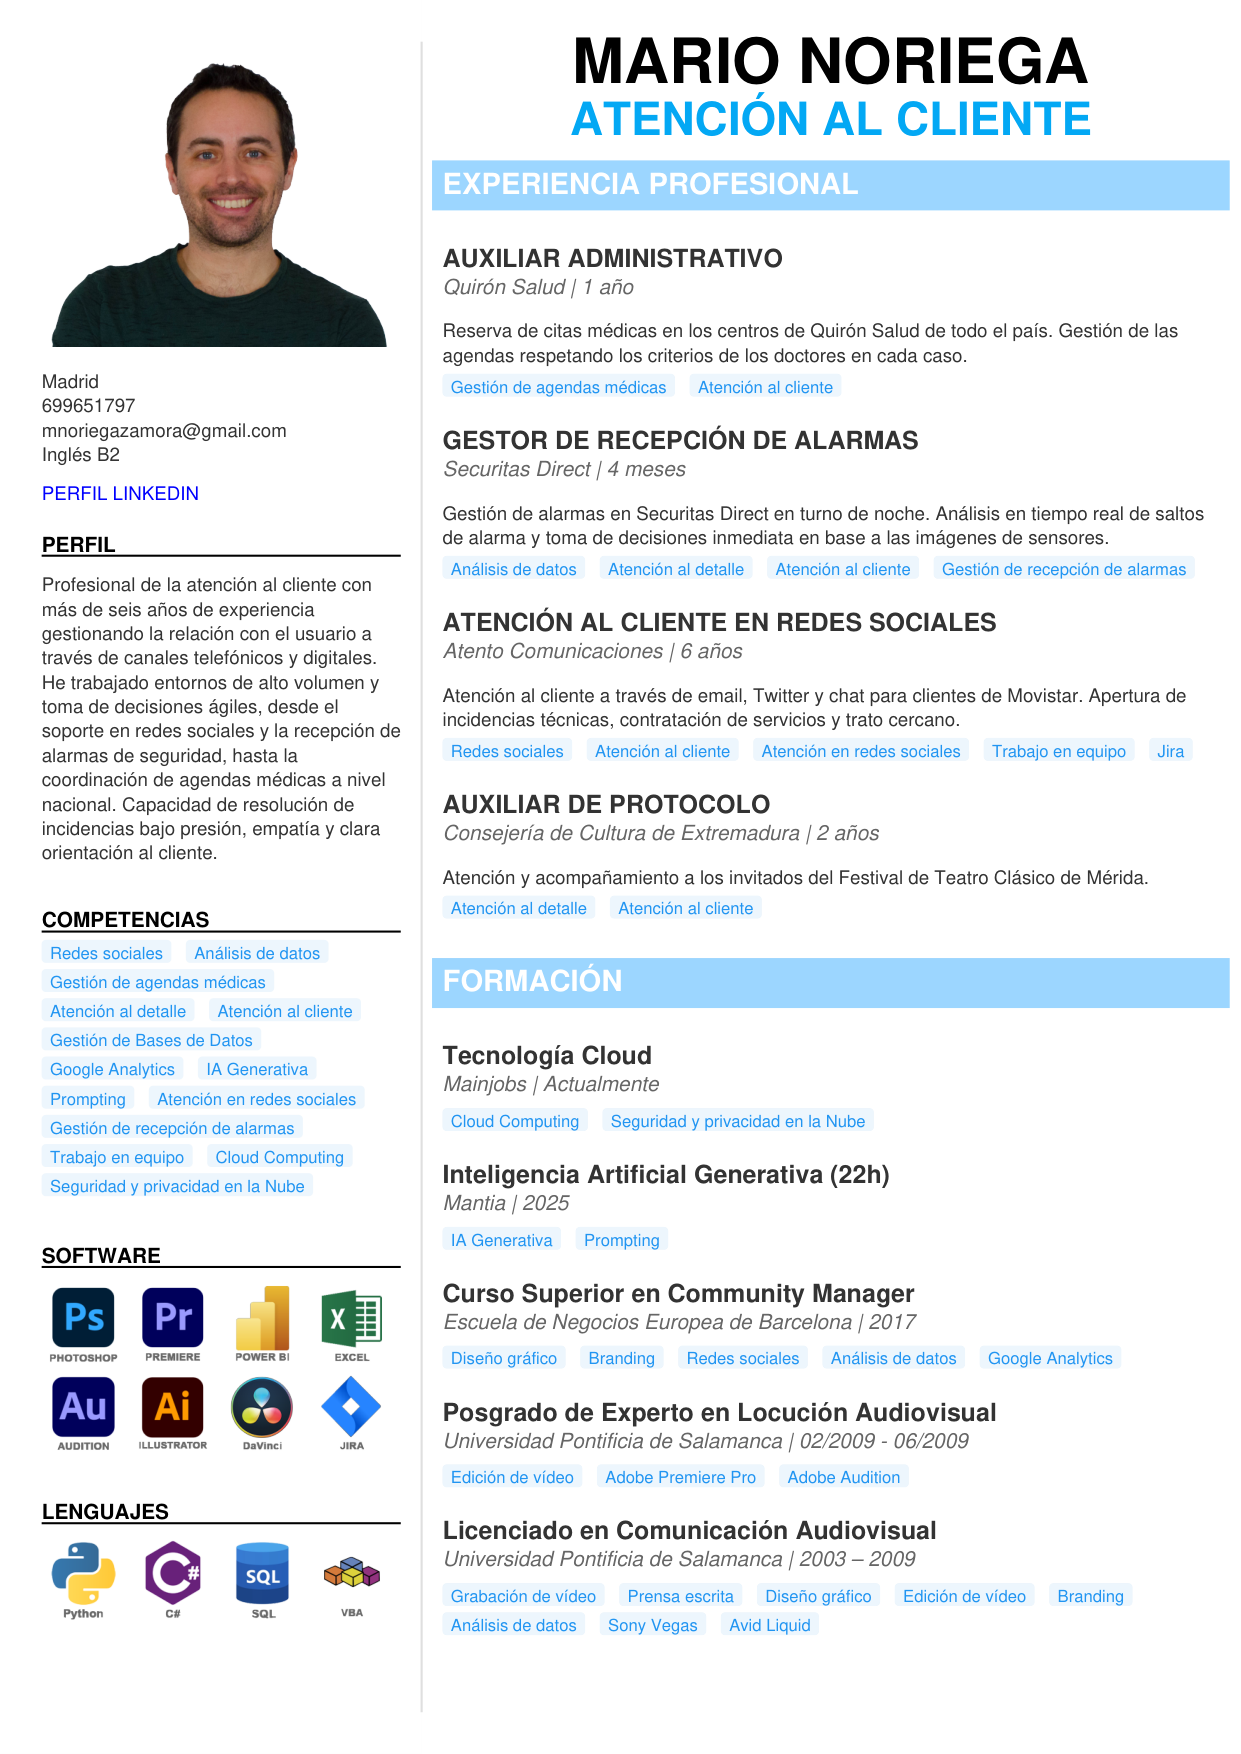
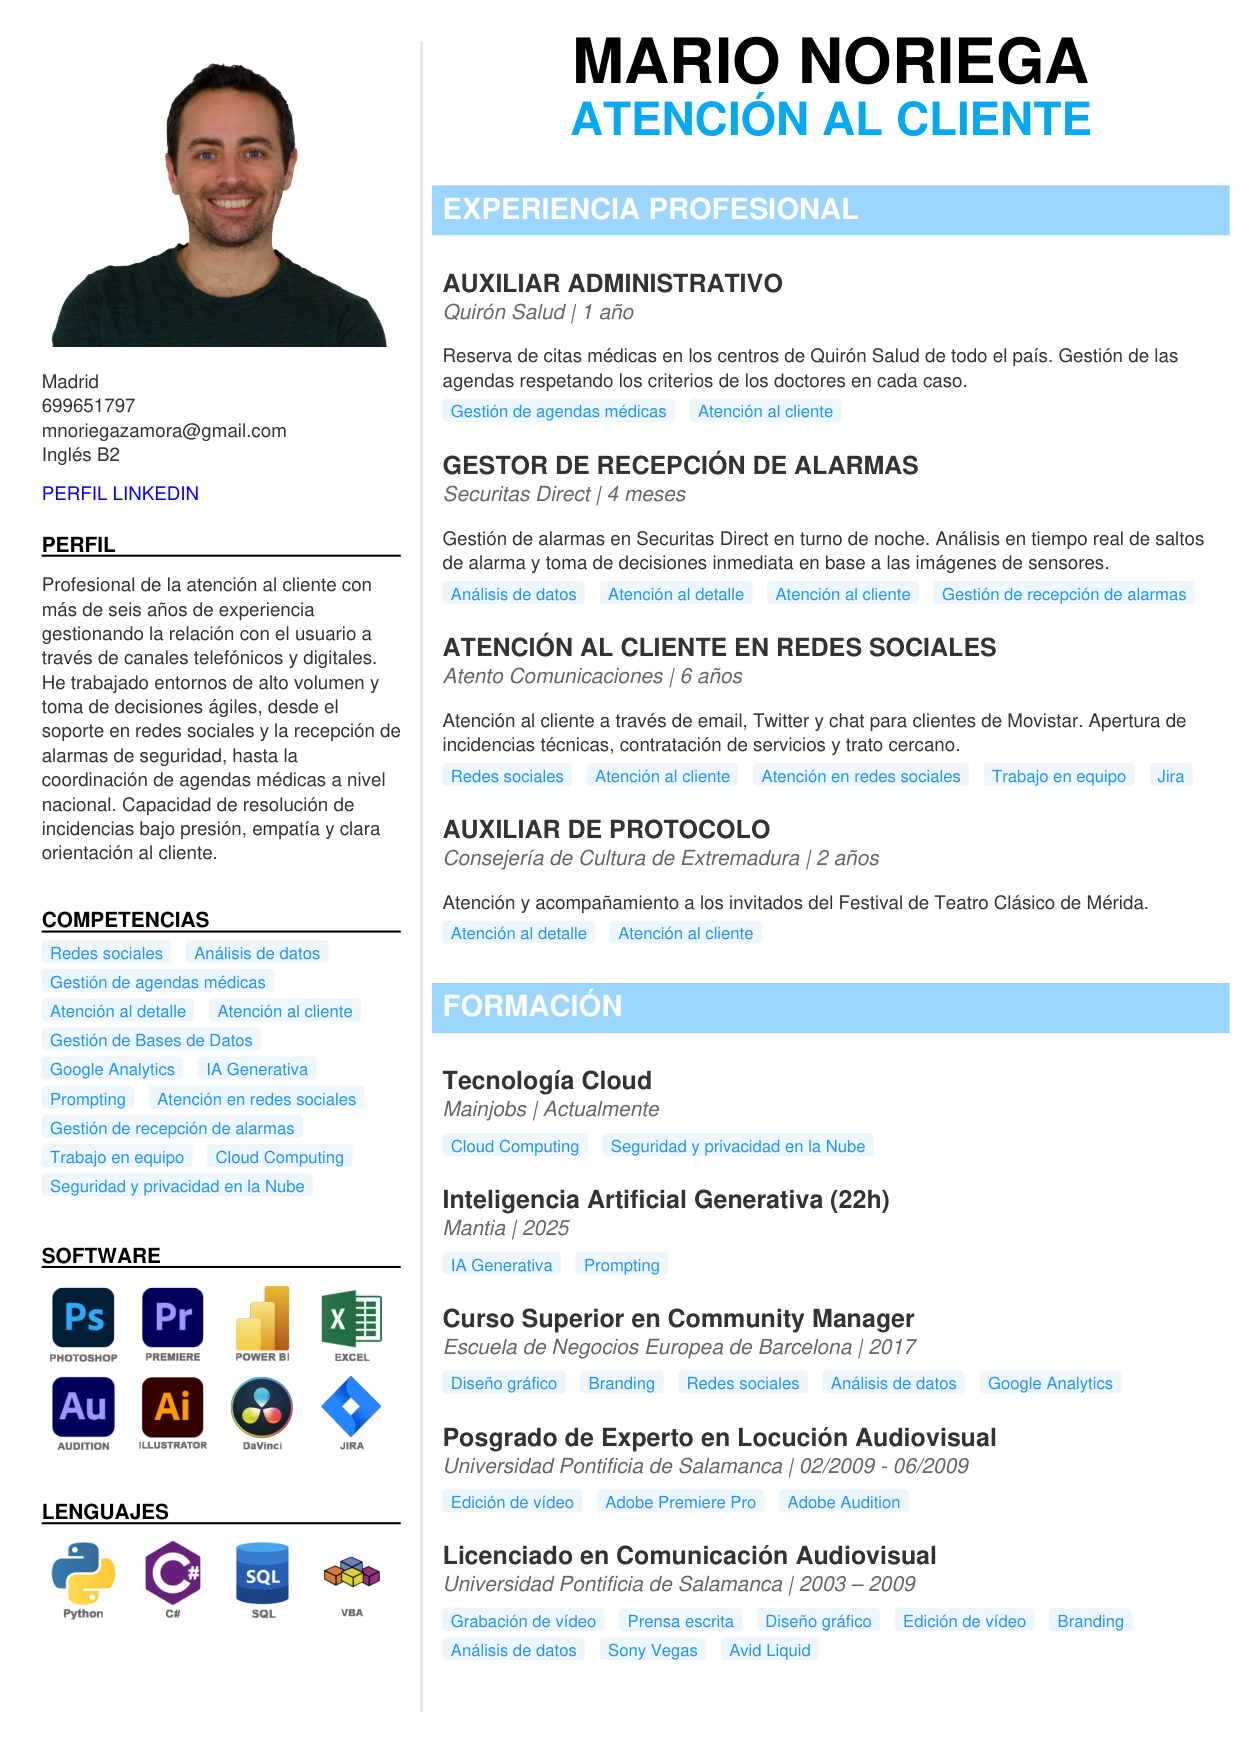
Fix lower adjusting
Ajustamos el contenido al final de la página

Changed region(s): [[0.3368, 0.0924, 1.0, 0.9544], [0.7961, 0.7697, 0.888, 0.8005], [0.8574, 0.8928, 0.888, 0.9236]]

diff --git a/utils/pdf_generator.py b/utils/pdf_generator.py
@@ -270,23 +270,93 @@ class PDFGenerator:
 
 
         # --- RIGHT COLUMN ---
+        # We do a dry-run first to compute total content height, then redistribute
+        # leftover space from the top in priority order:
+        #   1) gap between section separator and certifications/puesto
+        #   2) gap between name and puesto
+
+        h_name = self.design.header.name
+        name = self.cv_data.header_info.name if self.cv_data.header_info.name else "NOMBRE APELLIDO"
+        has_job = hasattr(self.cv_data.header_info, 'job_position') and self.cv_data.header_info.job_position
+        has_certs = hasattr(self.cv_data.header_info, 'certifications') and self.cv_data.header_info.certifications
+
+        # --- Measure name block height ---
+        name_lines = self._wrap_text(c, name.upper(), col2_w, h_name.family, h_name.size)
+        name_block_h = len(name_lines) * (h_name.size + 2) + 5   # +5 is the y_right -= 5 after
+
+        # --- Measure job block height ---
+        job_block_h = 0
+        if has_job:
+            h_job = self.design.header.job
+            job_val = self._get_text(self.cv_data.header_info, "job_position")
+            job_lines = self._wrap_text(c, job_val.upper(), col2_w, h_job.family, h_job.size)
+            # The job block starts after pulling up by (h_name.size/2 - 3) and ends pulling up -18
+            job_block_h = len(job_lines) * (h_job.size + 4) - (h_name.size / 2 - 3) - 18
+        else:
+            job_block_h = 5   # the y_right -= 5 in else branch
+
+        # --- Measure certs block height ---
+        certs_block_h = 0
+        if has_certs:
+            h_cert = self.design.header.certification
+            cert_val = self._get_text(self.cv_data.header_info, "certifications")
+            certs_text = cert_val.replace('\n', '<br/>').replace('\n', '<br/>')
+            certs_text = self._process_text_formatting(certs_text)
+            style_certs_measure = ParagraphStyle(
+                'CertsMeasure', parent=self.style_body,
+                fontName=h_cert.family, fontSize=h_cert.size,
+                textColor=HexColor(h_cert.color), alignment=TA_CENTER, leading=h_cert.size * 1.2
+            )
+            p_measure = Paragraph(certs_text, style_certs_measure)
+            _, certs_h = p_measure.wrap(col2_w, PAGE_HEIGHT_A4)
+            certs_block_h = certs_h + 15
+
+        # Fixed spacing after header block before first section separator
+        header_bottom_gap = 20
+
+        # --- Measure section heights ---
+        exp_h = self._measure_section(c, self.cv_data.experience, col2_w)
+        edu_h = self._measure_section(c, self.cv_data.education, col2_w)
+
+        # Total content height in right column
+        total_h = (
+            20                    # initial top gap (y_right = current_y - 20)
+            + name_block_h
+            + job_block_h
+            + certs_block_h
+            + header_bottom_gap
+            + exp_h
+            + 10                  # gap between sections
+            + edu_h
+        )
+
+        available_h = height - 2 * MARGIN
+        leftover = max(0, available_h - total_h)
+
+        # Distribute leftover space in priority order:
+        #   Phase 1 (all leftover): gap between section separator and certs/puesto block
+        #   Phase 2 (overflow from phase 1 if capped): gap between name and puesto — currently unused
+        extra_after_separator = leftover
+        extra_name_job = 0
+
+        # --- NOW DRAW ---
         y_right = current_y - 20
 
-        # Header Info (Nombre, Puesto, Certificaciones)
-        h_name = self.design.header.name
+        # Draw Name
         c.setFont(h_name.family, h_name.size)
         c.setFillColor(HexColor(h_name.color))
-        name = self.cv_data.header_info.name if self.cv_data.header_info.name else "NOMBRE APELLIDO"
-        for line in self._wrap_text(c, name.upper(), col2_w, h_name.family, h_name.size):
+        for line in name_lines:
             w = c.stringWidth(line, h_name.family, h_name.size)
             x_pos = col2_x + (col2_w - w) / 2
             c.drawString(x_pos, y_right, line)
             y_right -= (h_name.size + 2)
         y_right -= 5
-        
-        if hasattr(self.cv_data.header_info, 'job_position') and self.cv_data.header_info.job_position:
+
+        # Apply extra gap between name and job (phase 2, starts at 0)
+        y_right -= extra_name_job
+
+        if has_job:
             h_job = self.design.header.job
-            # Reduce the visual space between Name and Puesto by half, taking off a bit to add 3px gap
             y_right += (h_name.size / 2) - 3
             c.setFont(h_job.family, h_job.size)
             c.setFillColor(HexColor(h_job.color))
@@ -300,30 +370,85 @@ class PDFGenerator:
         else:
             y_right -= 5
 
-        if hasattr(self.cv_data.header_info, 'certifications') and self.cv_data.header_info.certifications:
+        if has_certs:
             h_cert = self.design.header.certification
             cert_val = self._get_text(self.cv_data.header_info, "certifications")
             certs_text = cert_val.replace('\n', '<br/>')
             certs_text = self._process_text_formatting(certs_text)
-            
             style_certs = ParagraphStyle(
                 'Certs', parent=self.style_body,
                 fontName=h_cert.family, fontSize=h_cert.size,
                 textColor=HexColor(h_cert.color), alignment=TA_CENTER, leading=h_cert.size * 1.2
             )
-            
             p = Paragraph(certs_text, style_certs)
             _, h = p.wrap(col2_w, PAGE_HEIGHT_A4)
             p.drawOn(c, col2_x, y_right - h)
             y_right -= (h + 15)
 
-        y_right -= 20
+        # Apply extra gap between header block and first section separator (phase 1)
+        y_right -= (header_bottom_gap + extra_after_separator)
 
         y_right = self._draw_section(c, self.cv_data.experience, col2_x, y_right, col2_w)
         y_right -= 10
         y_right = self._draw_section(c, self.cv_data.education, col2_x, y_right, col2_w)
 
         c.save()
+
+    def _measure_section(self, c, section, width):
+        """Dry-run of _draw_section: returns total height consumed without drawing anything."""
+        rc_title = self.design.right_col.title
+        header_height = rc_title.size + 10
+        h = header_height + 11  # separator bar + gap below
+
+        gt_title = self.design.global_text.title
+        gt_subtitle = self.design.global_text.subtitle
+
+        for m in section.modules:
+            if not m.is_active:
+                continue
+
+            # Title line
+            h += gt_title.size + 1
+
+            # Subtitle line
+            sub_parts = []
+            if self._get_text(m, "company"):
+                sub_parts.append(self._get_text(m, "company"))
+            if self._get_text(m, "date_range"):
+                sub_parts.append(self._get_text(m, "date_range"))
+            if sub_parts:
+                h += gt_subtitle.size + 2
+
+            # Body text
+            if hasattr(m, 'hide_text') and getattr(m, 'hide_text', False):
+                h += 5
+            else:
+                text = self._get_text(m, "text_summary" if (hasattr(m, 'use_summary') and m.use_summary) else "text_extended")
+                if text:
+                    formatted = self._process_text_formatting(text).replace('\n', '<br/>')
+                    p = Paragraph(formatted, self.style_body)
+                    _, ph = p.wrap(width, PAGE_HEIGHT_A4)
+                    h += ph
+                h += 12
+
+            # Tags
+            if hasattr(m, 'tags') and m.tags:
+                tags = self._get_tags(m)
+                t_font = self.design.tags.font
+                row_h = t_font.size + 6
+                current_x = 0
+                rows = 1
+                for tag in tags:
+                    tag_w = c.stringWidth(tag, t_font.family, t_font.size) + 10
+                    if current_x + tag_w > width:
+                        current_x = 0
+                        rows += 1
+                    current_x += tag_w + 5
+                h += rows * row_h + 5
+
+            h += 8
+
+        return h
 
     def _draw_sidebar_header(self, c, title, x, y, width):
         lc_title = self.design.left_col.title
